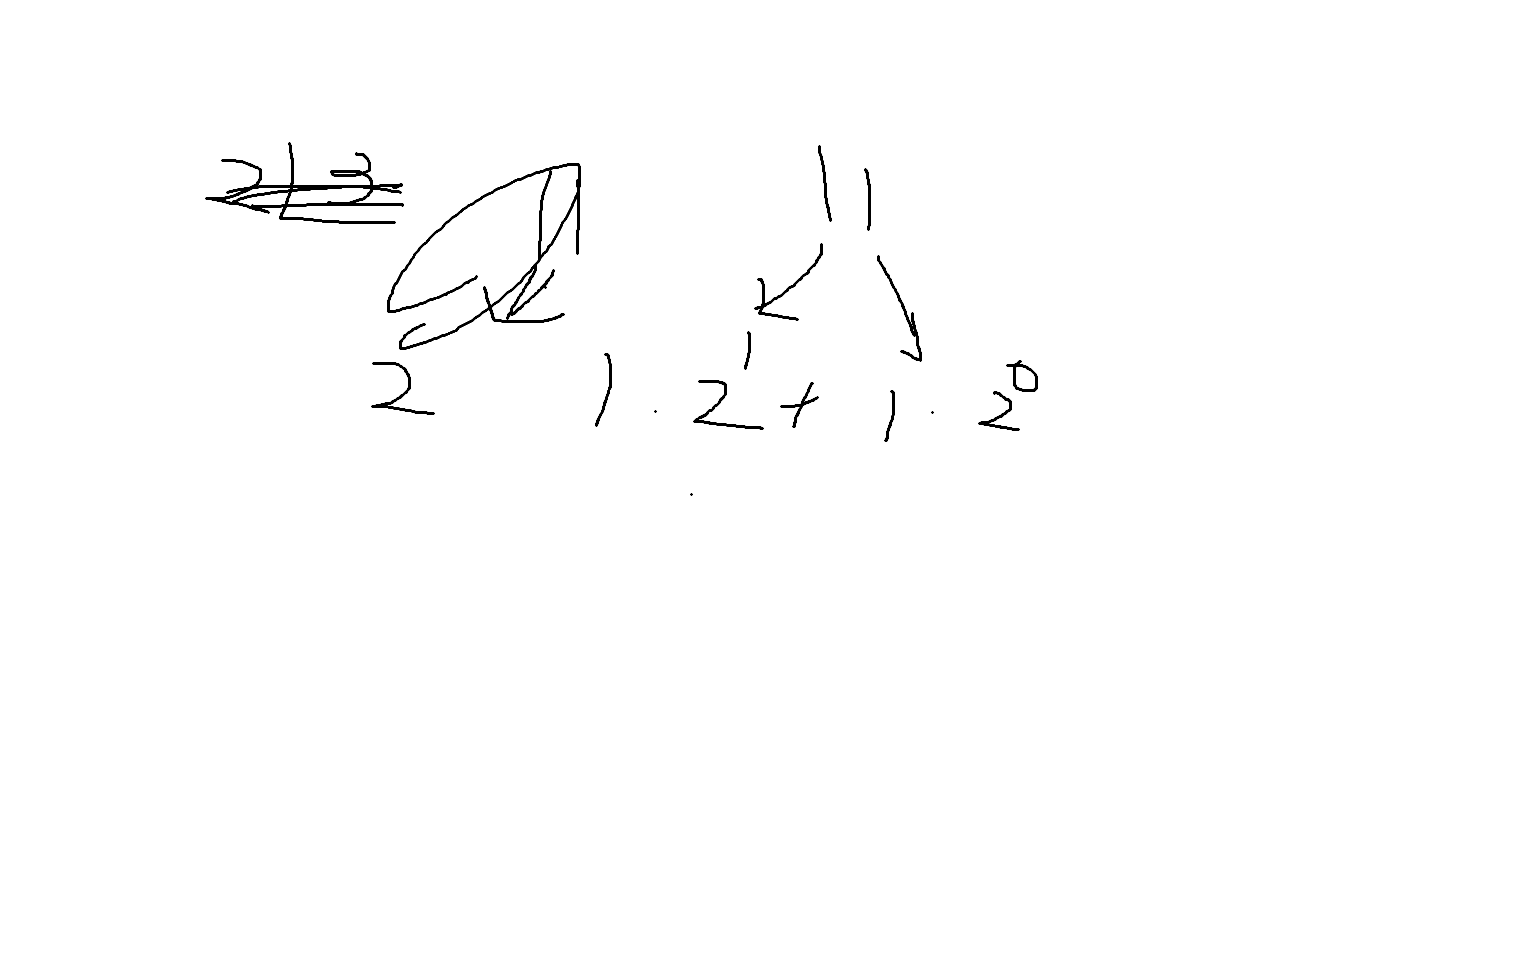
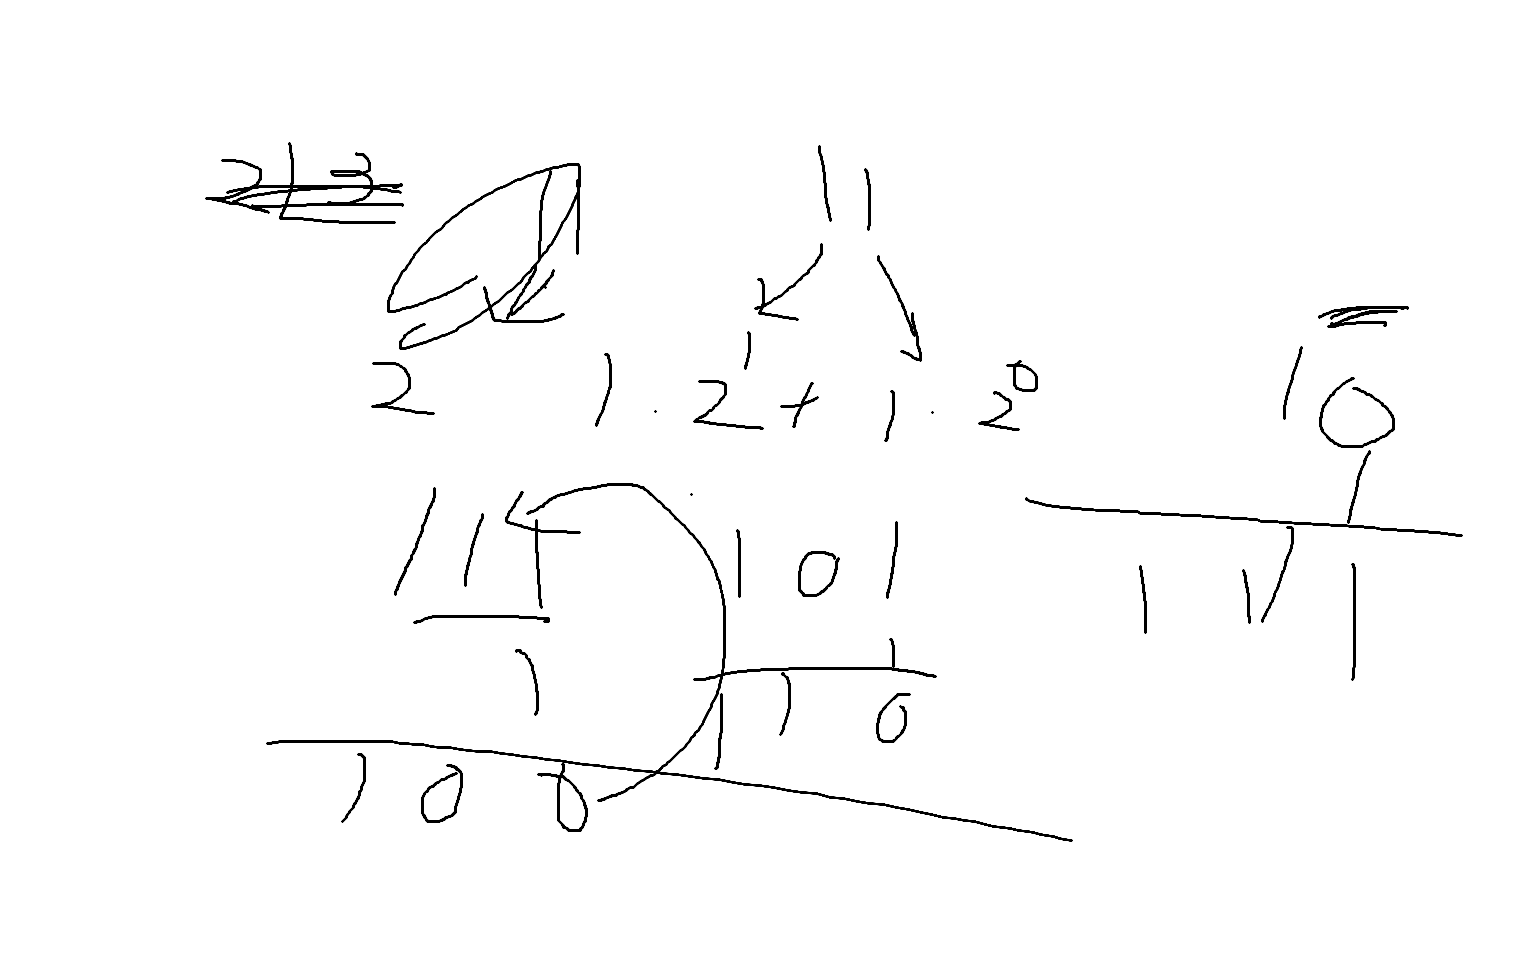
number of one bits

diff --git a/191_Number_of_One_Bits.cpp b/191_Number_of_One_Bits.cpp
@@ -1,0 +1,32 @@
+using namespace std;
+#include<bits/stdc++.h>
+
+class Solution {
+public:
+    int hammingWeight(int n) {
+        int hammingweight = 0;
+        while(n>0){
+            hammingweight += n % 2;
+            n /= 2;
+        }
+        // cout << hammingweight;
+        return hammingweight;
+    }
+};
+class Solution2 {
+public:
+    int hammingWeight(uint32_t n) {
+        int ans = 0;
+        while (n) {
+            ans += (n & 1);
+            n >>= 1;
+        }
+        return ans;
+    }
+};
+
+int main(){
+    Solution solution;
+    int n = 2147483645;
+    solution.hammingWeight(n);
+}
